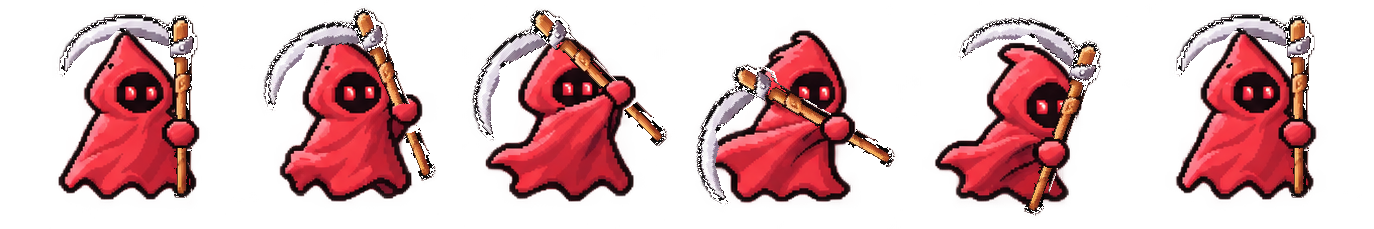
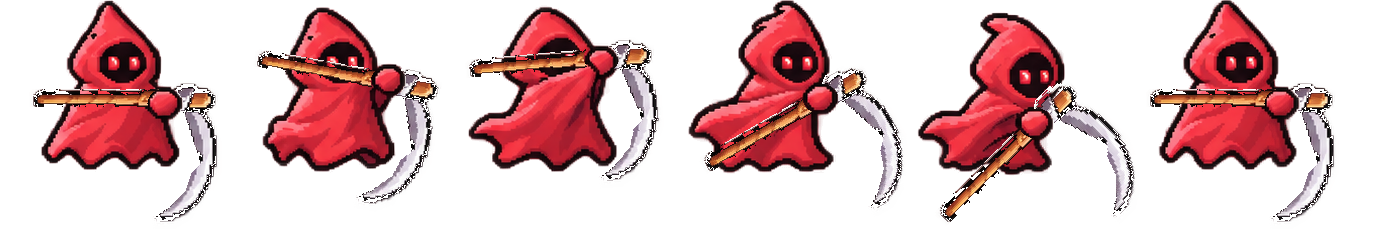
# [asset] - Reaper가 낫을 몸 바깥쪽으로 향해 휘두르도록 수정

diff --git a/.art-incoming/monster-animations/Reaper_WeaponFix.md b/.art-incoming/monster-animations/Reaper_WeaponFix.md
@@ -11,3 +11,5 @@
 ## 재수정
 
 이전 수정은 공격 행에 기존 무기 조각이 남아 사용자 검수를 통과하지 못했다. 이미지 생성 도구로 공격 행의 무기를 제거하고 신체 레이어를 복원한 다음, 별도 `Reaper_Scythe.png` 한 장을 고정 배율로 회전·이동해서 합성했다. `Reaper_Attack.png`는 공격 6프레임 비교용이고 `Reaper_Attack.gif`는 반복 재생 확인용이다. 무기가 없는 중간 이미지는 최종 산출물이 아니다.
+
+추가 방향 요구: 공격 시 낫의 날은 캐릭터 몸 안쪽이 아니라 화면 오른쪽의 공격 대상 쪽을 향해 휘두른다. 기준 무기 전체를 같은 방향으로 사용하며 날과 자루를 따로 뒤집거나 변형하지 않는다.
